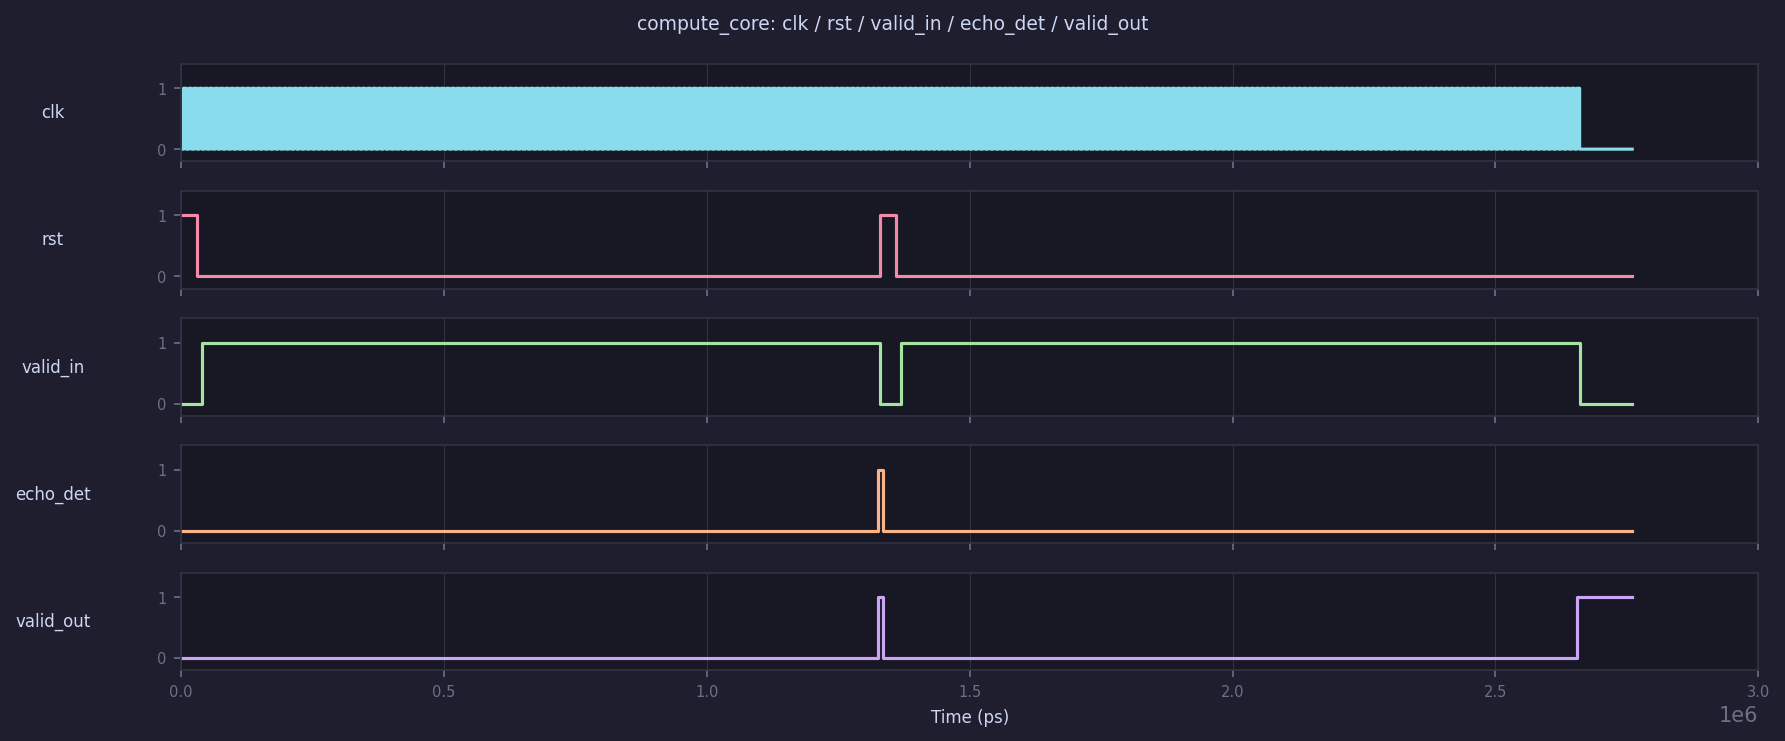
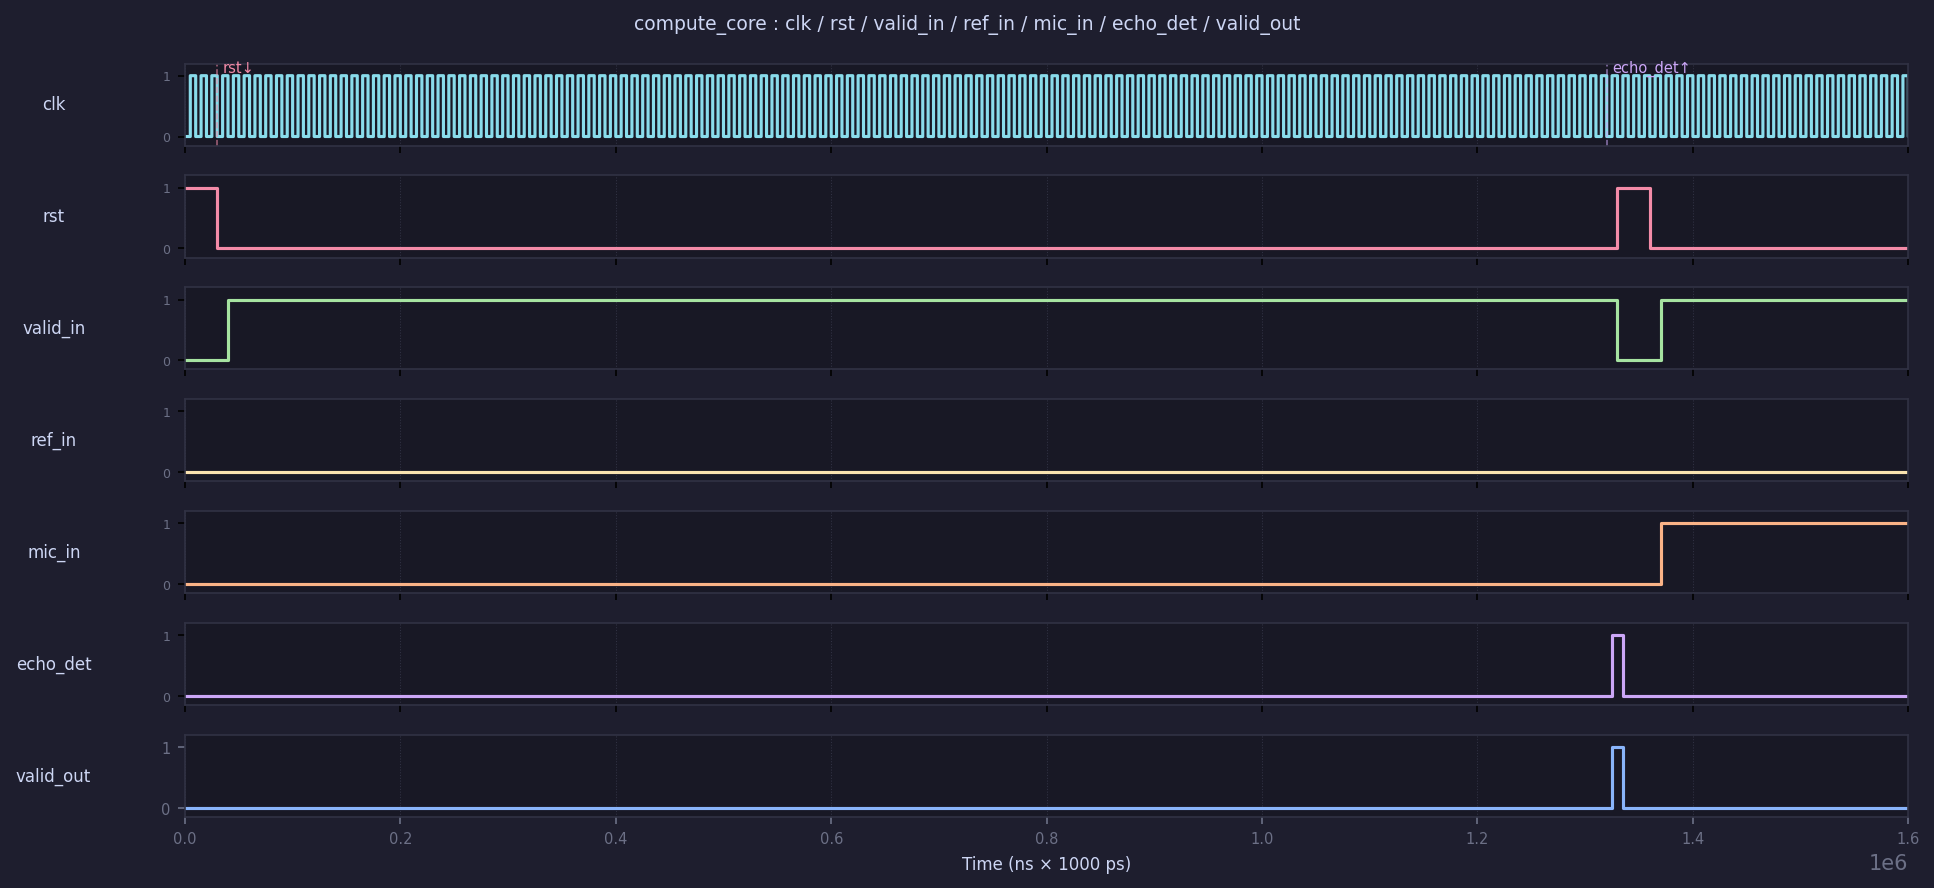
fix precision.md roofline ref, expand waveform to show pipeline signals

diff --git a/project/m2/precision.md b/project/m2/precision.md
@@ -6,6 +6,8 @@ Samples are signed 16-bit integer (INT16). Standard audio PCM at 16 kHz is INT16
 
 Accumulators are 40-bit signed (ACCW=40). Each product of two INT16 values is at most 32767² ≈ 1.07 × 10⁹, which fits in 30 bits. Summing 128 of them gives at most 1.37 × 10¹¹, which needs 37 bits. 40 bits adds 3 bits of headroom and aligns to a 5-byte boundary. A 32-bit accumulator overflows on large-amplitude correlated inputs.
 
+The M1 roofline analysis measured AI = 0.747 FLOP/byte for the software baseline (2 bytes per INT16 sample, 768 FLOP per 128-sample window). Using FP32 would double sample byte traffic to 4 bytes per sample, dropping AI to 0.374 FLOP/byte and pushing the design further into the memory-bound region. INT16 keeps byte traffic at 2 bytes per sample and preserves the on-chip bandwidth advantage that makes the chiplet compute-bound at 512 GB/s internal bandwidth.
+
 ## Normalization
 
 Full normalized cross-correlation divides by sqrt(ref_energy × mic_energy). This module skips that step. The comparison is acc_cross ≥ threshold, where threshold is set by the caller in accumulated units.